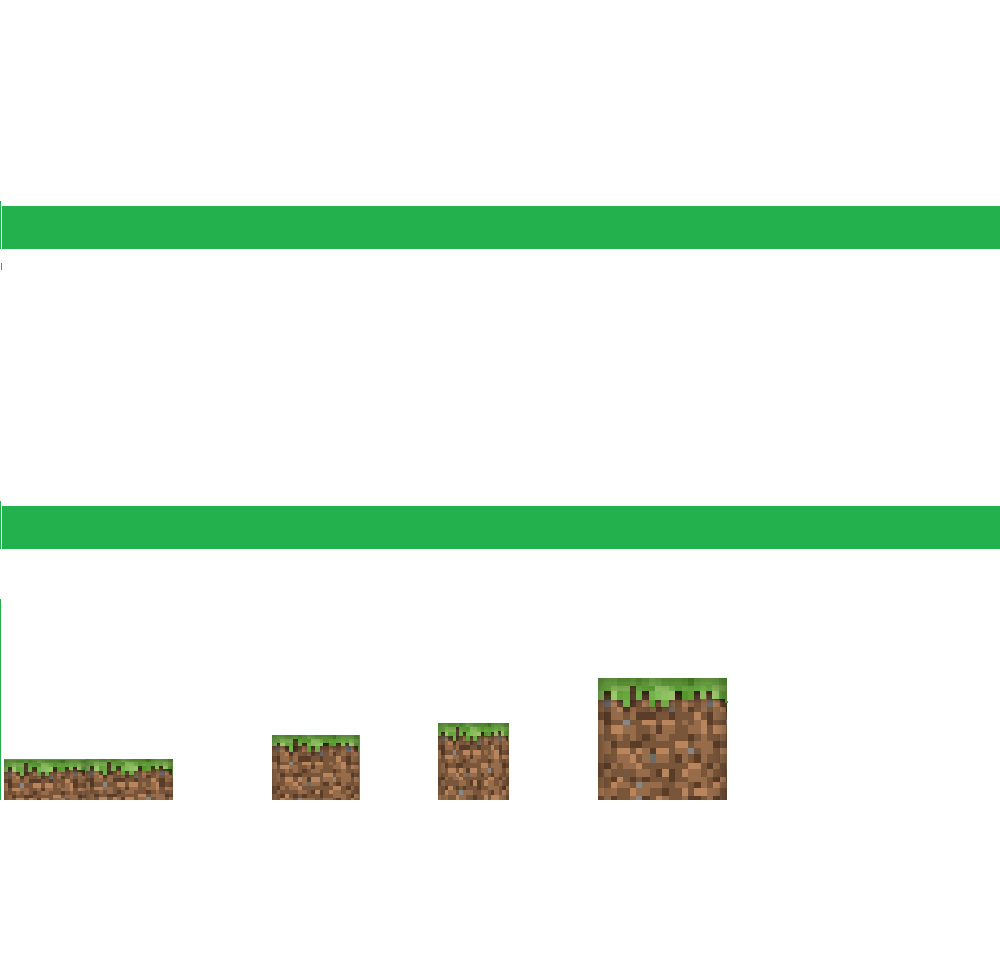
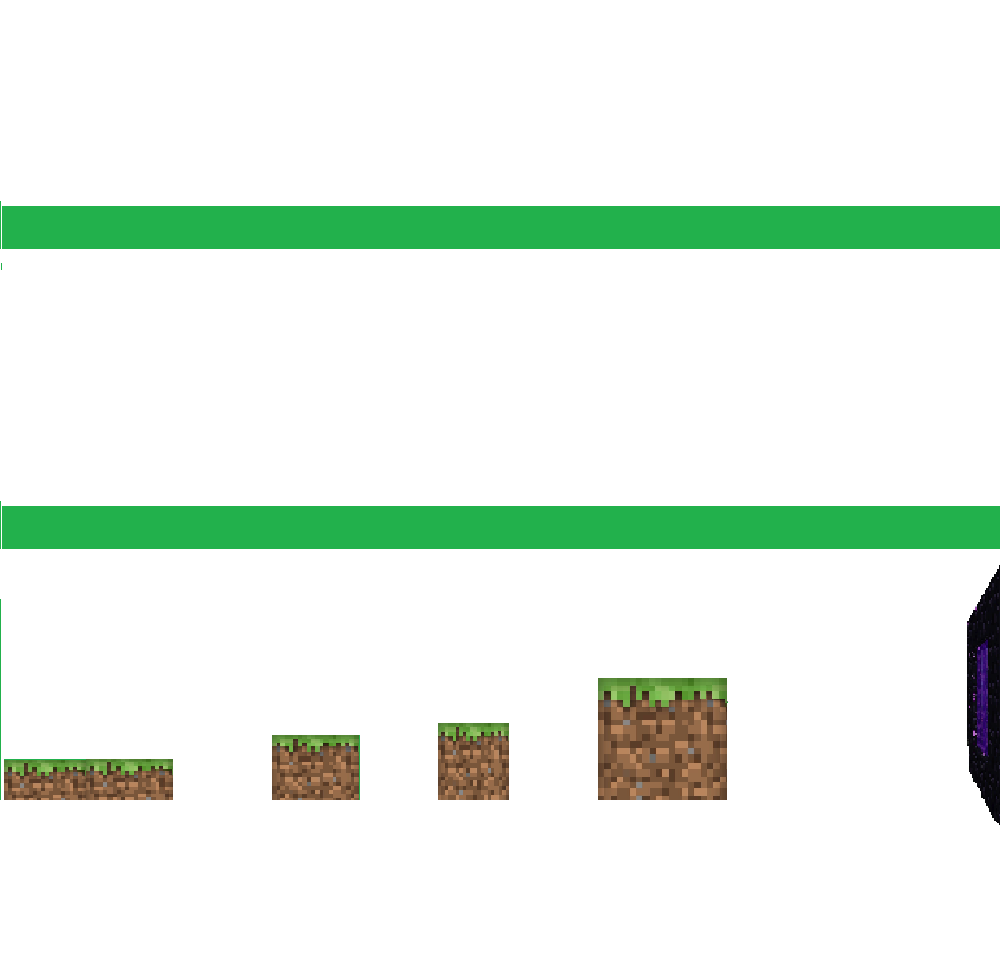
Ahora se teleporta a la segunda planta y funcionan los fuegos

Changed region(s): [[0.961, 0.5938, 1.0, 0.875]]

diff --git a/mainwindow.cpp b/mainwindow.cpp
@@ -26,10 +26,12 @@ MainWindow::MainWindow(QWidget *parent)
     ui->graphicsView->setScene(scene);
     ui->centralwidget->adjustSize();
     scene->addRect(scene->sceneRect());
-    fire->setPos(350,750);
-    fire2->setPos(380,750);
-    fire3->setPos(250,750);
+    fire->setPos(350,765);
+    fire2->setPos(500,765);
+    fire3->setPos(170,765);
     scene->addItem(fire);
+    scene->addItem(fire2);
+    scene->addItem(fire3);
     ui->graphicsView->resize(scene->width(),scene->height());
     this->resize(ui->graphicsView->width()+100, ui->graphicsView->height()+100);
     principal->setFlag(QGraphicsItem::ItemIsFocusable);
@@ -84,16 +86,22 @@ void MainWindow::bordercollision(personaje *b)//son los choques con los bordes
     if(b->get_posX()>limitX-b->get_Radio()){//posicion con el borde derecho.
         b->set_vel(-1*b->get_e()*b->get_velX(),b->get_velY(), limitX-b->get_Radio(), b->get_posY());
     }
-    if(b->get_posY()<b->get_Radio()){//choque con el borde superior.
+    if(b->get_posY()<b->get_Radio()){//choque con el borde inferior.
         b->set_vel(b->get_velX(),-1*b->get_e()*b->get_velY(), (b->get_posX()), b->get_Radio());
     }
-    if(b->get_posY()>limitY){//choque con el borde inferior.
+    if(b->get_posY()>limitY){//choque con el borde superior.
         b->set_vel(b->get_velX(),-1*b->get_e()*b->get_velY(), b->get_posX(), limitY);
     }
 
     if(level==1){
-        if(b->get_posY()>limitY-550){//choque con el borde inferior.
-            b->set_vel(b->get_velX(),-1*b->get_e()*b->get_velY(), b->get_posX(), limitY-550);
+        if(b->get_posX()>limitX-10-b->get_Radio()&& b->get_posY()>limitY-680-b->get_Radio() && b->get_posY()< limitY-600-b->get_Radio()){ //teleport
+            b->set_vel(-1*b->get_e()*b->get_velX(),b->get_velY(), 50, 450);
+        }
+        if(b->get_posY()>limitY-515-b->get_Radio() && b->get_posY()<limitY-510-b->get_Radio()){
+            b->set_vel(b->get_velX(),-1*b->get_e()*b->get_velY(), b->get_posX(), limitY-515-b->get_Radio());
+        }                                                                                                          //Segunda barra
+        if(b->get_posY()<limitY-435-b->get_Radio() && b->get_posY()>limitY-445-b->get_Radio()){
+            b->set_vel(b->get_velX(),-1*b->get_e()*b->get_velY(), b->get_posX(), limitY-435-b->get_Radio());
         }
         //
         if(b->get_posX()>0 && b->get_posX()<3 && b->get_posY()<limitY-680-b->get_Radio() ){//posicion con el borde derecho.

diff --git a/personaje.h b/personaje.h
@@ -7,6 +7,8 @@
 #include <QGraphicsScene>
 #include <stdlib.h>
 #include <time.h>
+#include <QGraphicsTextItem>
+#include <QFont>
 #include <QObject>
 
 class personaje : public QObject, public QGraphicsPixmapItem
@@ -24,7 +26,6 @@ public:
     float get_masa();
     void set_vel(float velx, float vely, float px, float py);
     void actualizar2();
-    void stop();
     // Aqui empiezan las funciones para graficarlo
     void setEscala(float s);
     QRectF boundingRect() const; // Monitor dice que es necesario
@@ -46,7 +47,6 @@ private:
     float e;        //coeficiente de restitucion.
     float V;        //Magnitud del vector velocidad
     float dt;       //delt a de tiempo.
-
     float escala = 1;   //Escala de grafica
 };
 

diff --git a/personaje.cpp b/personaje.cpp
@@ -26,6 +26,7 @@ personaje::personaje(float posX_, float posY_, float velX_, float velY_, float m
     QLabel *plotImg = new QLabel;
     plotImg->setScaledContents(true);
     setPixmap(QPixmap(QPixmap::fromImage(image2)));
+
 }
 
 personaje::~personaje()
@@ -86,10 +87,6 @@ void personaje::actualizar2()                                                  /
     VelY = VelY + (AceY*dt);                              // Vyt+at
 }
 
-void personaje::stop()
-{
-
-}
 
 // Aqui empiezan las funciones para graficarlo
 void personaje::setEscala(float s)

diff --git a/mainwindow.h b/mainwindow.h
@@ -41,7 +41,9 @@ private:
     void bordercollision(personaje *b);   //detecta colisiones con los bordes del mundo para detenerlo
     void keyPressEvent(QKeyEvent *event);
     personaje *principal=new personaje(32,150,0,0,20,30,0.08,0);              //lista con los cuerpos para mostrarlos.
-    obstaculo *fire,*fire2,*fire3=new obstaculo;
+    obstaculo *fire=new obstaculo(100,40);
+    obstaculo *fire2=new obstaculo(100,40);
+    obstaculo *fire3=new obstaculo(110,40);
 
 };
 #endif // MAINWINDOW_H

diff --git a/obstaculo.cpp b/obstaculo.cpp
@@ -1,9 +1,9 @@
 #include "obstaculo.h"
 
-obstaculo::obstaculo(QObject *parent) : QObject(parent)
+obstaculo::obstaculo(int a, int b,QObject *parent) : QObject(parent)
 {
     QImage image(":/images/fire");
-    QImage image2 = image.scaled(50, 50, Qt::KeepAspectRatio);
+    QImage image2 = image.scaled(a, b);
     QLabel *plotImg = new QLabel;
     plotImg->setScaledContents(true);
     setPixmap(QPixmap(QPixmap::fromImage(image2)));

diff --git a/obstaculo.h b/obstaculo.h
@@ -12,7 +12,7 @@ class obstaculo : public QObject,public QGraphicsPixmapItem
 {
     Q_OBJECT
 public:
-    explicit obstaculo(QObject *parent = nullptr);
+    explicit obstaculo(int a, int b, QObject *parent = nullptr);
 
 signals:
 
